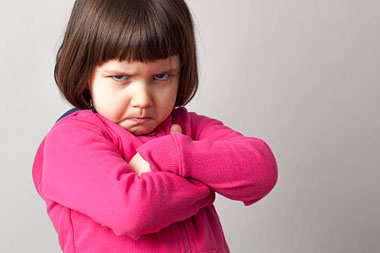
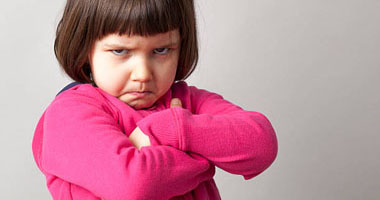
tweaks to content

Changed region(s): [[0.0868, 0.0, 0.7526, 1.0]]

diff --git a/src/containers/gospel.jsx b/src/containers/gospel.jsx
@@ -30,9 +30,9 @@ const component = ({ test }) => (<div>
             All liars, shall have their part in the lake which burneth with fire and brimstone: which is the second death.<sub>Revelation 21:8</sub>
         </i>
         <h3>Justice must be served.</h3>
-        <p>There is punishment due for your sin - and it must be paid. There is good news though,</p>
+        <p>The penalty for your sin must be paid - either by you, or by someone else who is able. This is where the good news begins,</p>
         <p>
-            God provided a Way for you to be forgiven - and avoid the eternal penalty of sin. In other words,
+            God provided a Way for your sin to be paid for - this means that your sin can be forgiven. In other words,
         </p>
         <h3 className="emphasise"> God has thrown you a life line.
                 </h3>
@@ -76,7 +76,7 @@ const component = ({ test }) => (<div>
             <input type="text" />
             <label>Your phone or email</label>
             <input type="text" />
-            <button className="btn">Send</button>
+            <button className="btn">Contact me!</button>
         </form>
         <br/>
         <br/>

diff --git a/src/containers/judgement.jsx b/src/containers/judgement.jsx
@@ -16,7 +16,9 @@ const component = ({ test, guiltyCount }) =>
                 What about you?
         </i>
             <p>
-                If you're found guilty of breaking God's moral law, do you think you would be going to Heaven, or to God's prision called Hell?
+                If you're found guilty of breaking God's moral law, should you go free? 
+                <br/>
+                <br/>If you are guilty, do you think you would be going to Heaven, or to God's prision called Hell?
         </p>
         </div>
         <div className="footer btn-group">

diff --git a/src/containers/guilty.jsx b/src/containers/guilty.jsx
@@ -13,7 +13,7 @@ const component = ({ guiltyCount, endTest }) =>
             breaking His Law <b>on at least {guiltyCount} count{guiltyCount > 1 ? 's' : ''}</b>?
         </p>
         <hr />
-        <h3>If there was a way out of this mess, would you want to know?</h3>
+        <h3>If there was a way to get out of this mess, would you want to know?</h3>
         
         </div>
         <div className="footer btn-group">

diff --git a/src/containers/question.jsx b/src/containers/question.jsx
@@ -11,7 +11,7 @@ const component = ({ number, percent, next, question, answer }) =>
             <h2>Question {number}</h2>
             <h3>{question.text}</h3>
         </div>
-        <div className="content scroll">
+        <div className="content scroll center">
             <img src={question.image} alt={question.text} />
         </div>
         <div className="footer btn-group">
